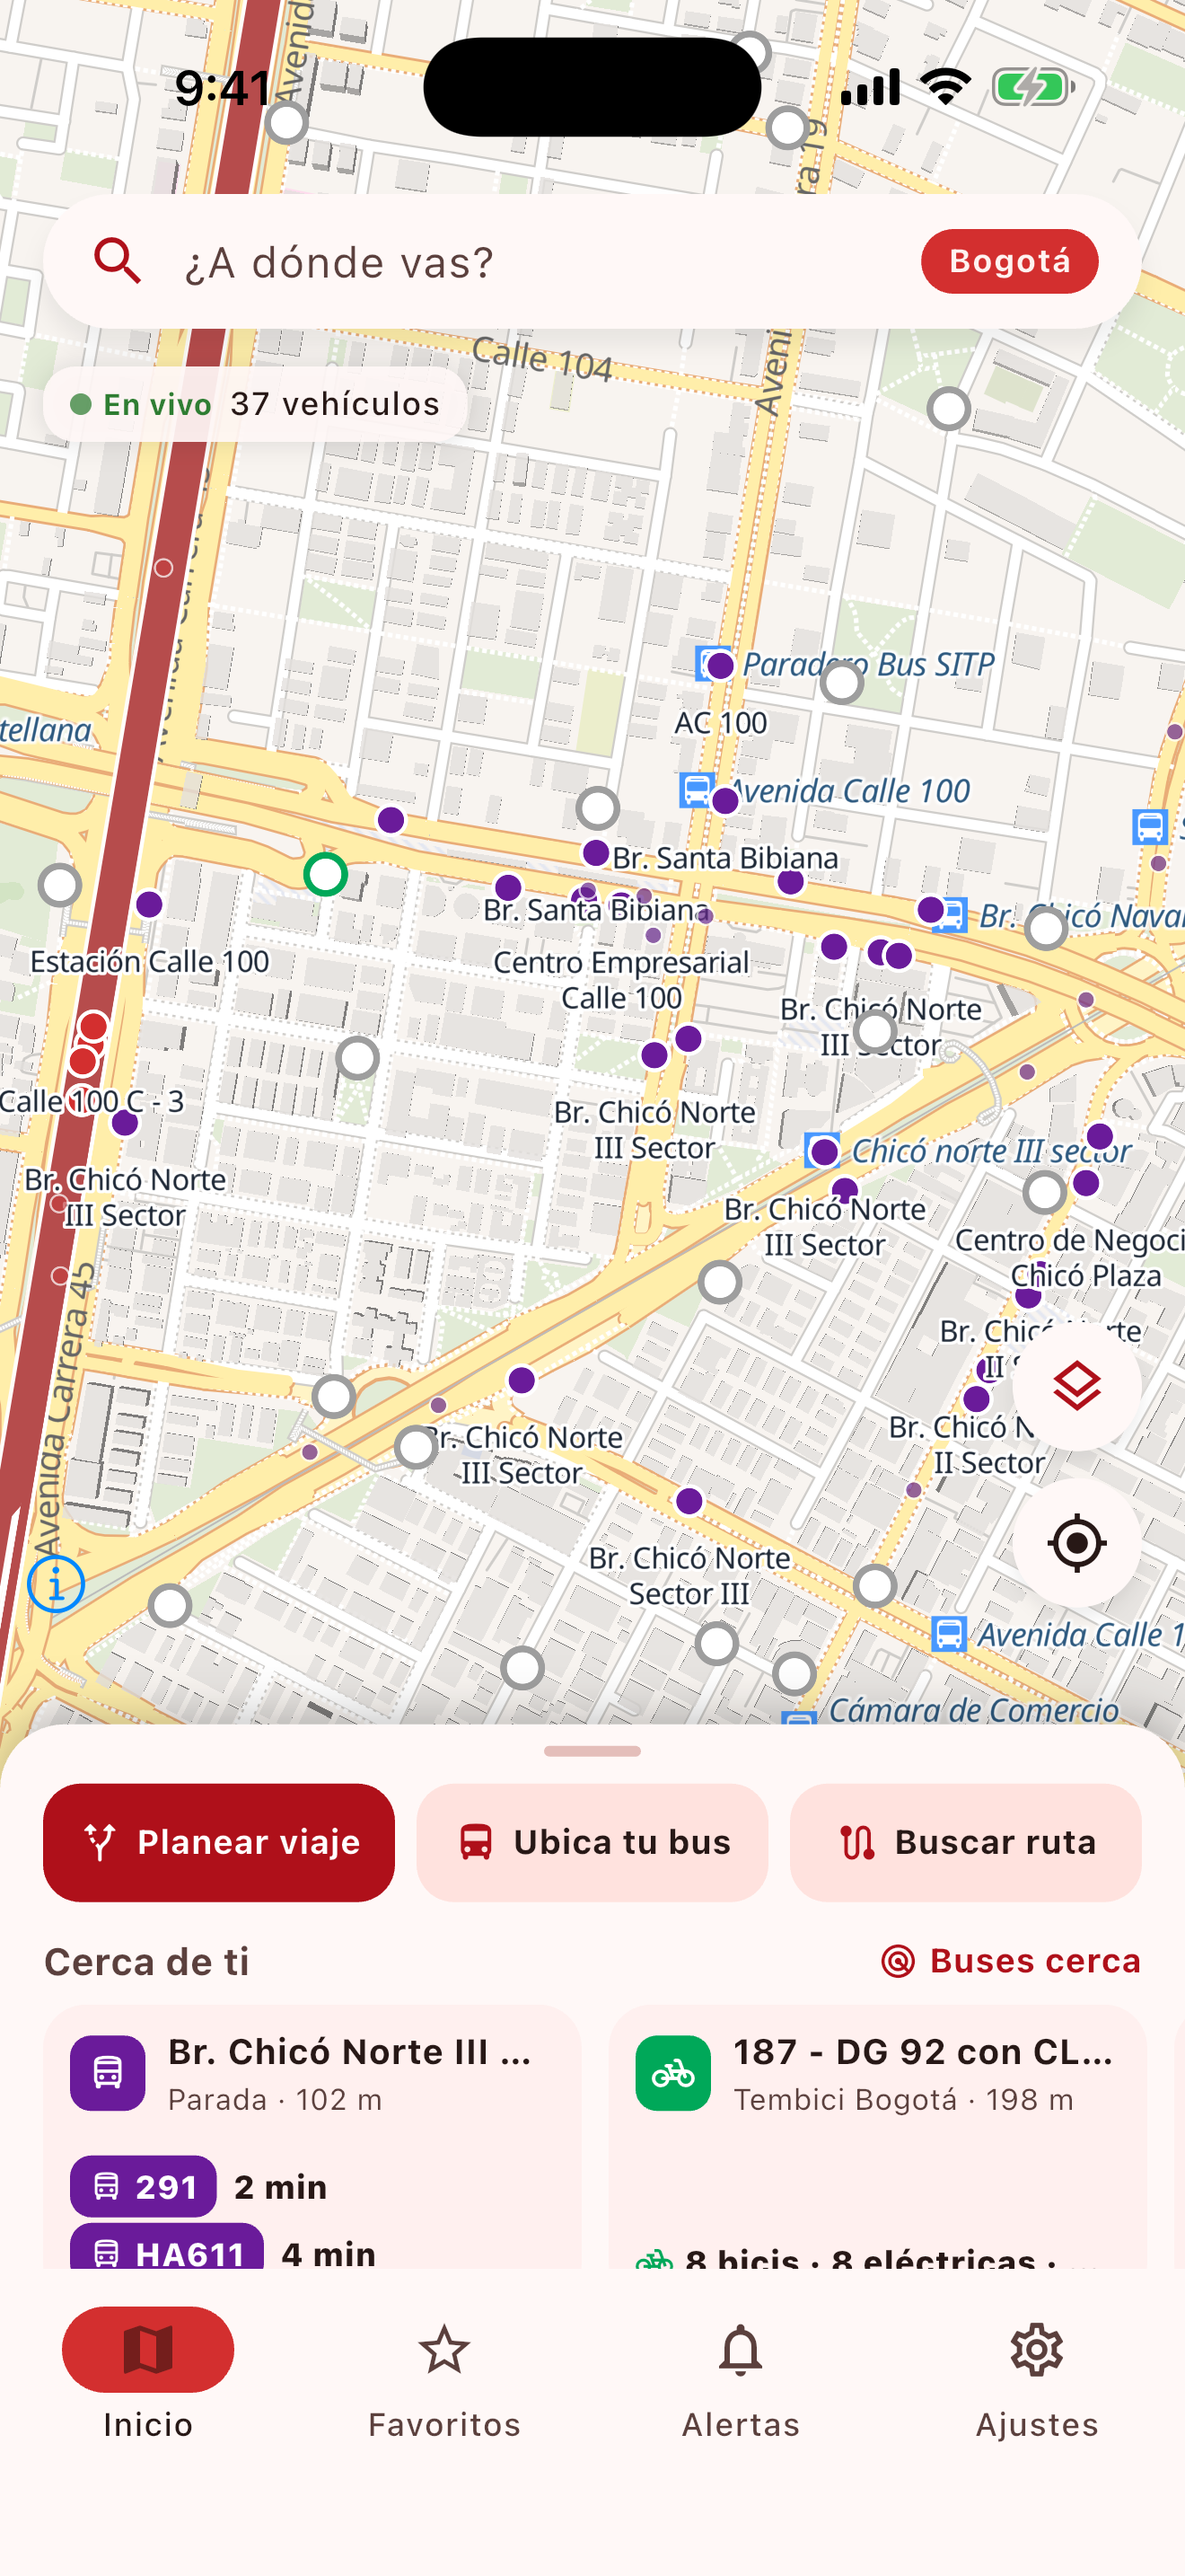
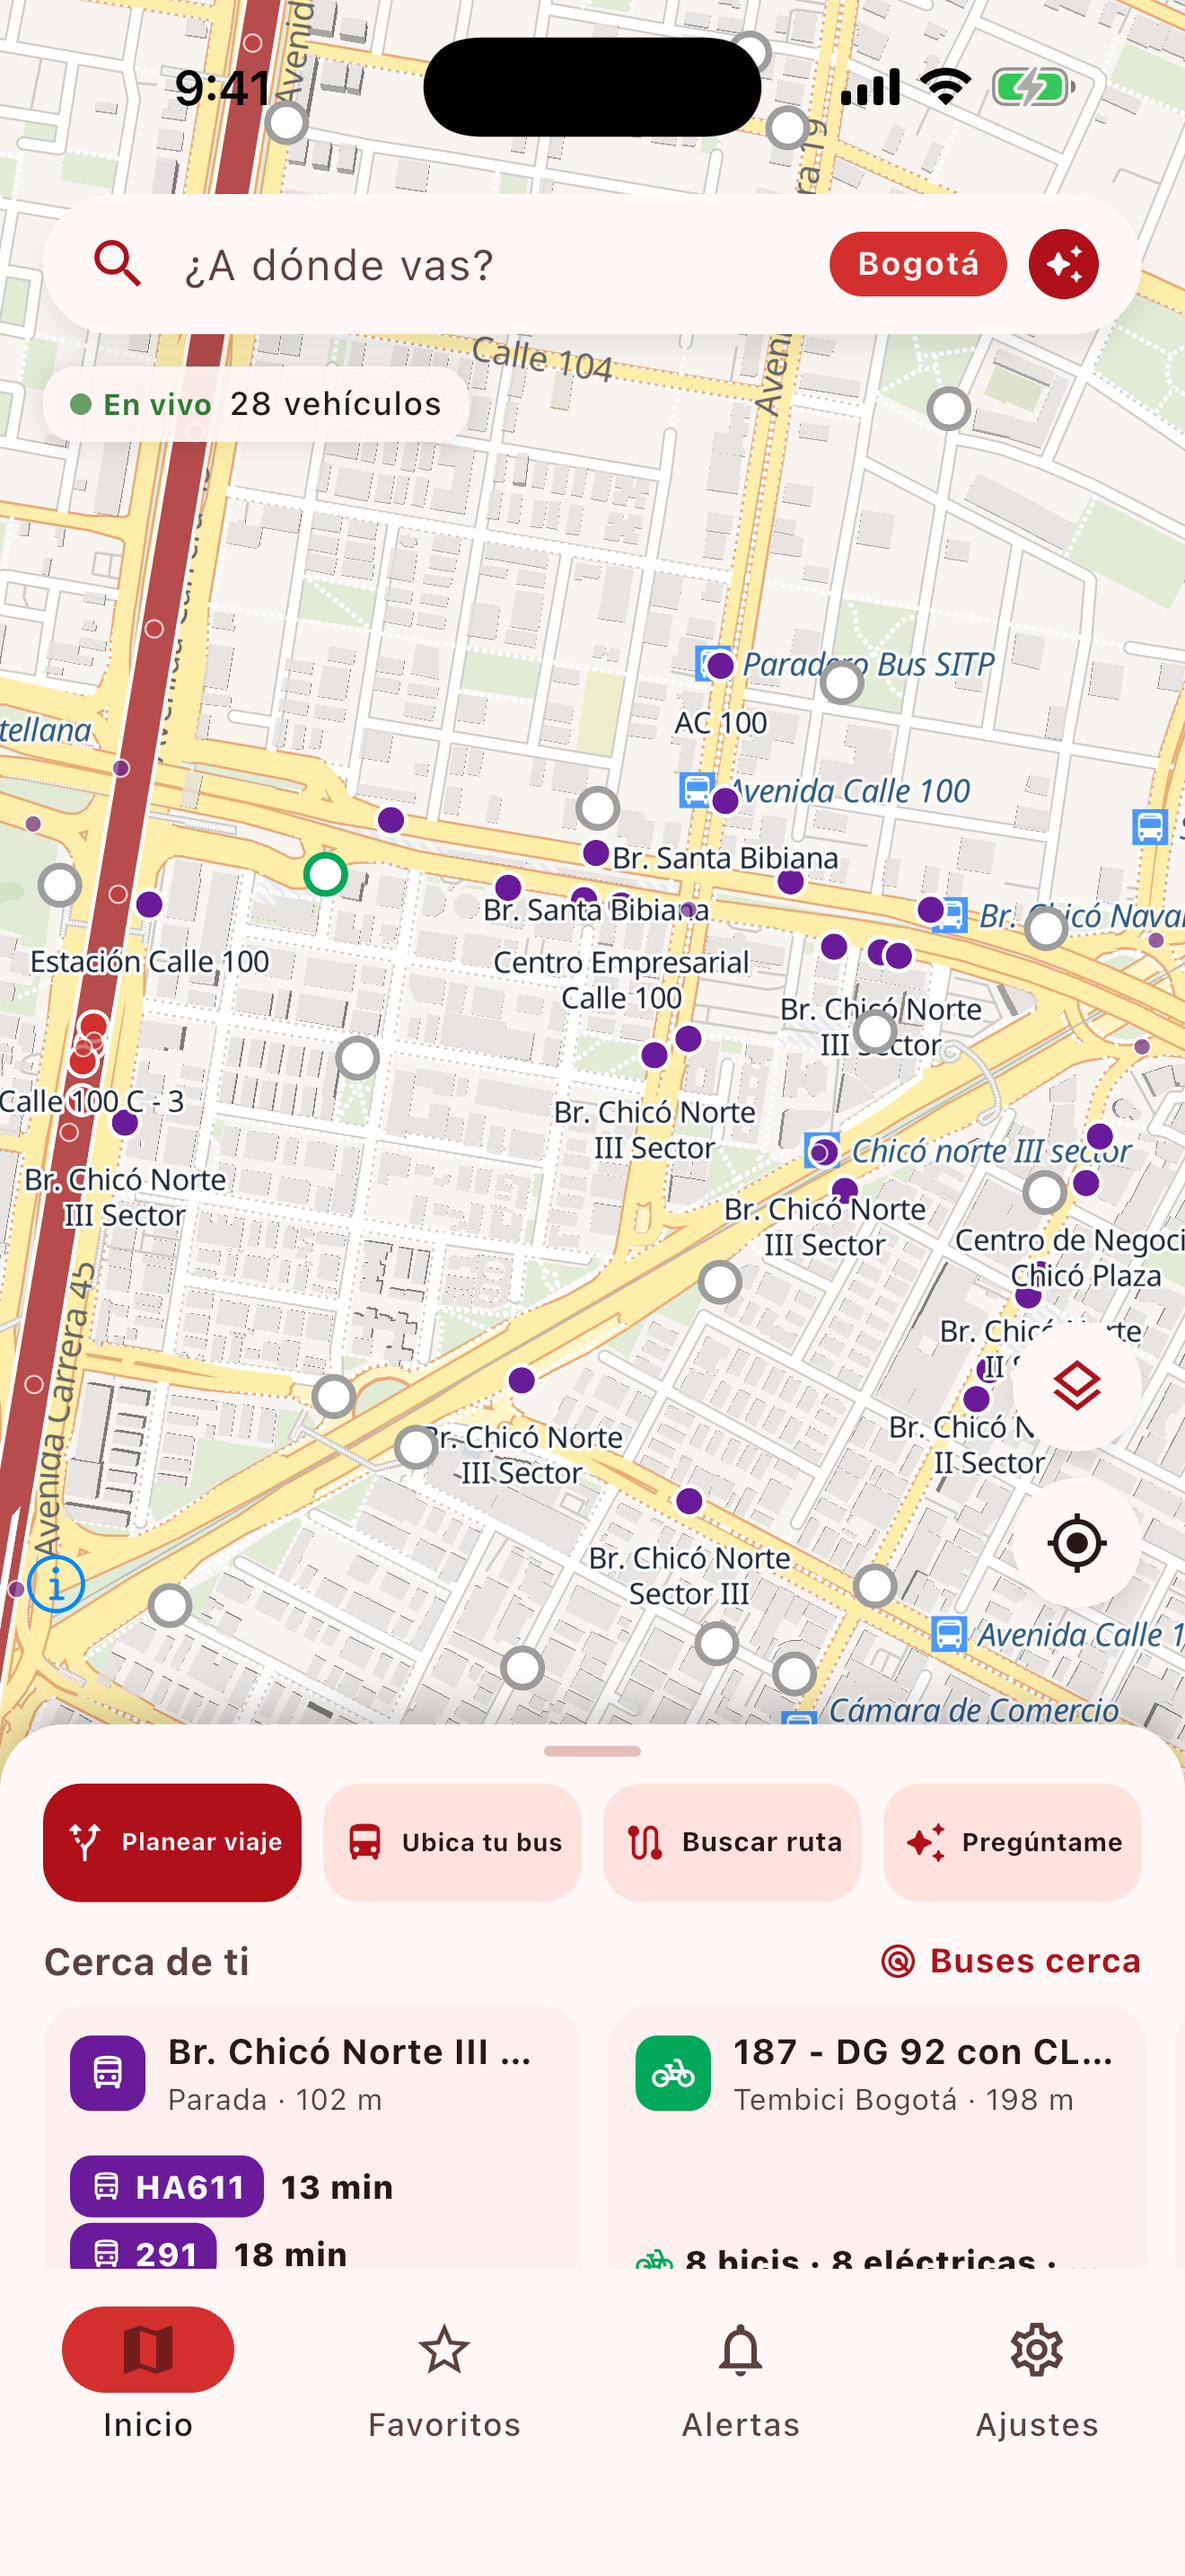
Store screenshots, generated against production
Six screens per locale in Spanish and English, captured from the live Bogotá
API rather than fixtures: the runs logged 2,100-2,700 real vehicles and five
real itineraries per plan.

Sizes were taken from the vendors' current docs, not from memory, and both have
a trap. Apple needs 6.9" iPhone (1320x2868) and, because this app runs on iPad,
13" iPad (2064x2752); everything smaller is scaled by Apple, so generating it
is noise. Play refuses an image whose long side is more than twice its short
side, and a native Pixel 9 Pro capture is 2.23x — so device-native captures are
not uploadable and are fitted to 1080x1920. All 32 verified as 24-bit PNG with
no alpha at the exact target size.

Two honest gaps rather than something that looks complete:

- iPad ships four screens, not six. The two list screens render a phone-width
  column on a 13" canvas and leave two thirds of it blank. They are kept under
  ipad/_excluded/ as evidence of a real tablet-layout gap instead of being
  shipped or quietly replaced with phone shots.
- Captured near 23:00 Bogotá, so the fleet is thinner than a weekday afternoon
  and departures read late. A daytime re-run will look busier.

The planner form was dropped from the story on purpose: empty and mapless, it
contradicts the standing rule that the map is the product. The address search
screen replaced it.

The raw emulator captures are not committed; one command regenerates them.
[…]

diff --git a/integration_test/store_shots_test.dart b/integration_test/store_shots_test.dart
@@ -113,15 +113,34 @@ void main() {
     await settle(tester, 20);
     await shot(tester, '01_home_map');
 
-    // 2 ── Planning a trip from an address.
+    // 2 ── Planning a trip from an address: the real geocoder answering a
+    // half-typed Bogotá address. (The empty planner form is the same journey
+    // with none of the map or data on screen, so it is not the shot we ship.)
     final planner = container.read(plannerProvider.notifier);
+    planner.setTo(_to);
+    router.go('/bogota/plan');
+    await settle(tester, 20);
+    router.push('/bogota/search?field=from');
+    await settle(tester, 25);
+    await tester.enterText(find.byType(TextField).first, 'Avenida Carrera 7 # 32');
+    await settle(tester, 30);
+    await waitFor(tester, find.byKey(const ValueKey('result-0')), seconds: 30);
+    // Drop focus before the capture: the field autofocuses, and iOS answers
+    // with the software keyboard (plus, on a fresh simulator, its bilingual
+    // "Type español e inglés" tutorial card) covering half the frame. A user
+    // scrolling the results sees exactly this state.
+    FocusManager.instance.primaryFocus?.unfocus();
+    await settle(tester, 20);
+    await Future<void>.delayed(const Duration(seconds: 3));
+    await settle(tester, 15);
+    await shot(tester, '02_search_address');
+    router.go('/bogota/plan');
+    await settle(tester, 20);
+
     planner.setFrom(_from);
     planner.setTo(_to);
     planner.setModes({TravelMode.transit, TravelMode.walk});
-    router.go('/bogota/plan');
-    await settle(tester, 25);
-    await Future<void>.delayed(const Duration(seconds: 2));
-    await shot(tester, '02_plan_from_address');
+    await settle(tester, 10);
 
     // 3 ── Results. Driven through the notifier rather than the localised CTA.
     final plan = await planner.plan('bogota');

diff --git a/tool/store_resize.py b/tool/store_resize.py
@@ -10,8 +10,11 @@ than as a letterbox.
 
     tool/store_resize.py <in-dir> <out-dir> 1080x1920
 
-Apple, by contrast, wants the device's native pixel size, so nothing here is
-used for the iOS folders.
+Apple wants the device's native pixel size, so the iOS folders are not scaled —
+but both stores refuse an alpha channel and `simctl io … screenshot` writes
+RGBA, so pass `keep` as the size to flatten a folder to 24-bit PNG in place:
+
+    tool/store_resize.py docs/store/ios/es docs/store/ios/es keep
 """
 import sys
 from pathlib import Path
@@ -29,8 +32,9 @@ def main() -> int:
     if len(sys.argv) != 4:
         print(__doc__)
         return 2
-    src, dst, size = Path(sys.argv[1]), Path(sys.argv[2]), sys.argv[3]
-    tw, th = (int(x) for x in size.lower().split("x"))
+    src, dst, size = Path(sys.argv[1]), Path(sys.argv[2]), sys.argv[3].lower()
+    keep = size == "keep"
+    tw, th = (0, 0) if keep else (int(x) for x in size.split("x"))
     dst.mkdir(parents=True, exist_ok=True)
 
     files = sorted(p for p in src.iterdir() if p.suffix.lower() == ".png")
@@ -39,6 +43,10 @@ def main() -> int:
         return 1
     for p in files:
         im = Image.open(p).convert("RGB")
+        if keep:
+            im.save(dst / p.name, "PNG", optimize=True)
+            print(f"{p.name}: {im.width}x{im.height} flattened to 24-bit")
+            continue
         scale = min(tw / im.width, th / im.height)
         w, h = round(im.width * scale), round(im.height * scale)
         canvas = Image.new("RGB", (tw, th), edge_colour(im))

diff --git a/docs/store/README.md b/docs/store/README.md
@@ -1,0 +1,164 @@
+# Store listing screenshots
+
+Screenshots for the App Store and Google Play, captured from the real app
+running against **production** (`https://api.opentransit.tech`, Bogotá) so the
+maps, the routes, the arrival times and the fares are all real. Nothing here is
+a mockup, a fixture or a device frame. The listing copy that goes with them is
+in `../STORE-LISTING.md`.
+
+Captured on **2026-09-07, ~23:00 Bogotá time**, when the live feed was carrying
+2,100–2,700 vehicles rather than the ~3,500 of a weekday peak. The numbers on
+screen ("21 vehículos", "11 buses en 600 m", departures after 23:00) are that
+hour's truth. A daytime re-run will show busier maps and shorter waits.
+
+    docs/store/
+      ios/es/      iPhone 6.9" 1320×2868 — Spanish   (6 screens)
+      ios/en/      iPhone 6.9" 1320×2868 — English   (6 screens)
+      ipad/es/     iPad 13"    2064×2752 — Spanish   (4 screens)
+      ipad/en/     iPad 13"    2064×2752 — English   (4 screens)
+      ipad/_excluded/           the two iPad screens we chose not to ship — see below
+      android/es/  Play phone  1080×1920 — Spanish   (6 screens)
+      android/en/  Play phone  1080×1920 — English   (6 screens)
+      android-raw/ untouched 1280×2856 emulator captures the Play folder derives from
+                    (not committed — 12 MB, regenerated by the commands below)
+
+Everything under `ios/`, `ipad/` and `android/` is a 24-bit PNG with **no alpha
+channel** — both stores reject alpha, and `simctl io … screenshot` writes RGBA,
+so the iOS folders are flattened after capture (see *Regenerating*).
+
+## The six screens
+
+They are ordered as a story, and they follow the standing rule in
+`../../../UX-AUDIT.md` — *the map is the product*: four of the six are
+map-first, and the two list screens are the ones where the data itself is the
+point.
+
+| # | File | What it shows |
+|---|------|---------------|
+| 1 | `01_home_map.png` | Map-first home at street zoom: live fleet on the map, the search pill, the sheet only peeking |
+| 2 | `02_search_address.png` | Planning from an address — the live geocoder answering a half-typed Bogotá address |
+| 3 | `03_results.png` | Itineraries grouped by scenario (fastest / least walking / fewest transfers) with leave-by countdowns and the fare |
+| 4 | `04_itinerary_live.png` | The chosen itinerary: route drawn on the map, fare breakdown, leg-by-leg timeline |
+| 5 | `05_near_me.png` | "Cerca de mí" / "Near me": every live bus within 600 m, filtered by component |
+| 6 | `06_locate_bus.png` | "Ubica tu bus" / "Locate your bus": pick a route at a stop and watch the buses coming to it |
+
+**The iPad set ships only 1, 4, 5 and 6.** The app has no tablet layout yet: the
+two list screens (2 and 3) render a phone-width column of rows on a 13" canvas
+and leave the bottom two thirds blank. Those captures are kept under
+`ipad/_excluded/` as evidence of the gap rather than shipped — a screenshot that
+advertises empty space is worse than one screenshot fewer, and Apple's minimum
+is one per localization. Restore them here once the tablet layout lands.
+
+## What each store wants
+
+Checked against the vendors' own documentation on **2026-09-07** — both change
+these, so re-check before an upload rather than trusting this table.
+
+### Apple — App Store Connect
+
+Source: [Screenshot specifications](https://developer.apple.com/help/app-store-connect/reference/screenshot-specifications/)
+
+* **1 to 10 screenshots** per localization, `.png`/`.jpg`/`.jpeg`, **no alpha
+  channel**.
+* **iPhone 6.9" is required** if the app runs on iPhone. Accepted portrait
+  sizes: **1320 × 2868**, **1290 × 2796** or **1260 × 2736**. We ship
+  **1320 × 2868** (iPhone 17 Pro Max).
+* 6.5" (1284 × 2778 / 1242 × 2688) is *"Required if app runs on iPhone and
+  screenshots for 6.9" display aren't provided"* — providing 6.9" makes it
+  unnecessary.
+* 6.3", 6.1", 5.5" and smaller are optional; Apple scales them down from the
+  sizes above, so we deliberately do not generate them.
+* **iPad 13" is required** if the app runs on iPad — and this app does
+  (`TARGETED_DEVICE_FAMILY = "1,2"`). Portrait: **2064 × 2752**.
+
+### Google — Play Console
+
+Source: [Preview assets, screenshots and videos](https://support.google.com/googleplay/android-developer/answer/9866151)
+
+* **Minimum two screenshots across different device types**, up to 8 per device
+  type. **JPEG or 24-bit PNG (no alpha).**
+* Minimum dimension 320 px, maximum 3840 px, and — the rule that bites —
+  *"The maximum dimension of your screenshot can't be more than twice as long
+  as the minimum dimension."*
+* For promotional eligibility Play wants *"at least four screenshots with
+  minimum 1080px resolution"* at **9:16 portrait (minimum 1080 × 1920)**.
+
+A raw capture from any current phone fails that 2× rule — a Pixel 9 Pro is
+1280 × 2856 (2.23×) and an iPhone 17 Pro Max 1320 × 2868 (2.17×). So the
+Android captures are scaled to fit **1080 × 1920** and the leftover strips are
+filled with the screenshot's own top-edge colour by `tool/store_resize.py`.
+That satisfies both the 2× rule and the 9:16 promo requirement in one step.
+
+Also on the Play checklist, not produced here: app icon 512 × 512 32-bit PNG
+(with alpha) and feature graphic 1024 × 500 JPEG/24-bit PNG (no alpha).
+
+## Regenerating
+
+Everything is driven by `integration_test/store_shots_test.dart`, which walks
+the six screens and prints a `SCREENSHOT:<name>` cue at each one;
+`tool/screenshots.sh` greps for those cues and grabs the frame. The walkthrough
+navigates by widget key and by router URL, never by a translated string, so the
+same file produces both languages.
+
+### iOS
+
+```sh
+tool/store_shots.sh "iPhone 17 Pro Max" es docs/store/ios/es
+tool/store_shots.sh "iPhone 17 Pro Max" en docs/store/ios/en
+tool/store_shots.sh "iPad Pro 13-inch (M5)" es docs/store/ipad/es
+tool/store_shots.sh "iPad Pro 13-inch (M5)" en docs/store/ipad/en
+
+# simctl writes RGBA; App Store Connect refuses an alpha channel.
+for d in docs/store/ios/es docs/store/ios/en docs/store/ipad/es docs/store/ipad/en; do
+  tool/store_resize.py "$d" "$d" keep
+done
+```
+
+Any simulator whose native size is one Apple accepts for 6.9" works —
+iPhone 17 Pro Max and 16 Pro Max give 1320 × 2868, iPhone 15 Pro Max
+1290 × 2796, iPhone Air 1260 × 2736.
+
+`tool/store_shots.sh` boots the named simulator, writes its system language
+(`es-CO` / `en-US`) into the device's `.GlobalPreferences.plist` while it is
+shut down, pins the status bar to 9:41 with full signal and a charged battery,
+runs the walkthrough against production, then shuts the simulator back down if
+it was not already running. It fails loudly if the named device does not exist,
+rather than falling back to a different screen size.
+
+### Android
+
+```sh
+tool/store_shots_android.sh Pixel_9_Pro es docs/store/android-raw/es
+tool/store_shots_android.sh Pixel_9_Pro en docs/store/android-raw/en
+tool/store_resize.py docs/store/android-raw/es docs/store/android/es 1080x1920
+tool/store_resize.py docs/store/android-raw/en docs/store/android/en 1080x1920
+```
+
+The emulator script is the same walkthrough with `adb exec-out screencap` in
+place of `simctl io`, plus SystemUI demo mode for the clean status bar and
+`adb emu geo fix` for the simulated position. SystemUI drops demo mode whenever
+something it owns changes — the app asking for location is enough — so the
+script re-applies it immediately before every capture, not once at boot. Unlike
+iOS there is no reliable way to switch an emulator's *system* language from a
+script, so the Android status bar stays in the emulator's language; only the app
+follows `SHOT_LOCALE`. Nothing in the status bar is words, so this is invisible.
+
+### Knobs
+
+* `API_URL=… tool/store_shots.sh …` — point at a different backend (defaults to
+  `https://api.opentransit.tech`).
+* `OUT=… tool/screenshots.sh <udid> <target>` — the generic capture script now
+  honours an output directory, which is how the store folders are kept apart
+  from `docs/screenshots/`.
+
+## House rules for these images
+
+* **Real data only.** The walkthrough talks to production; if Bogotá is quiet
+  the shots show a quiet Bogotá. Do not re-run until the numbers flatter us.
+* **No personal data.** Origins and destinations are public landmarks
+  (Av. Carrera 7 # 32-16, Portal Norte). No saved home/work place, no favourite,
+  no recent trip belonging to a real person may appear.
+* **No admin panel, no API key, no token** in any frame.
+* Captures are device-native and unretouched — no marketing captions, no device
+  frames, no upscaling. Apple wants native pixels; the only transform applied
+  anywhere is the Play 9:16 fit described above.
